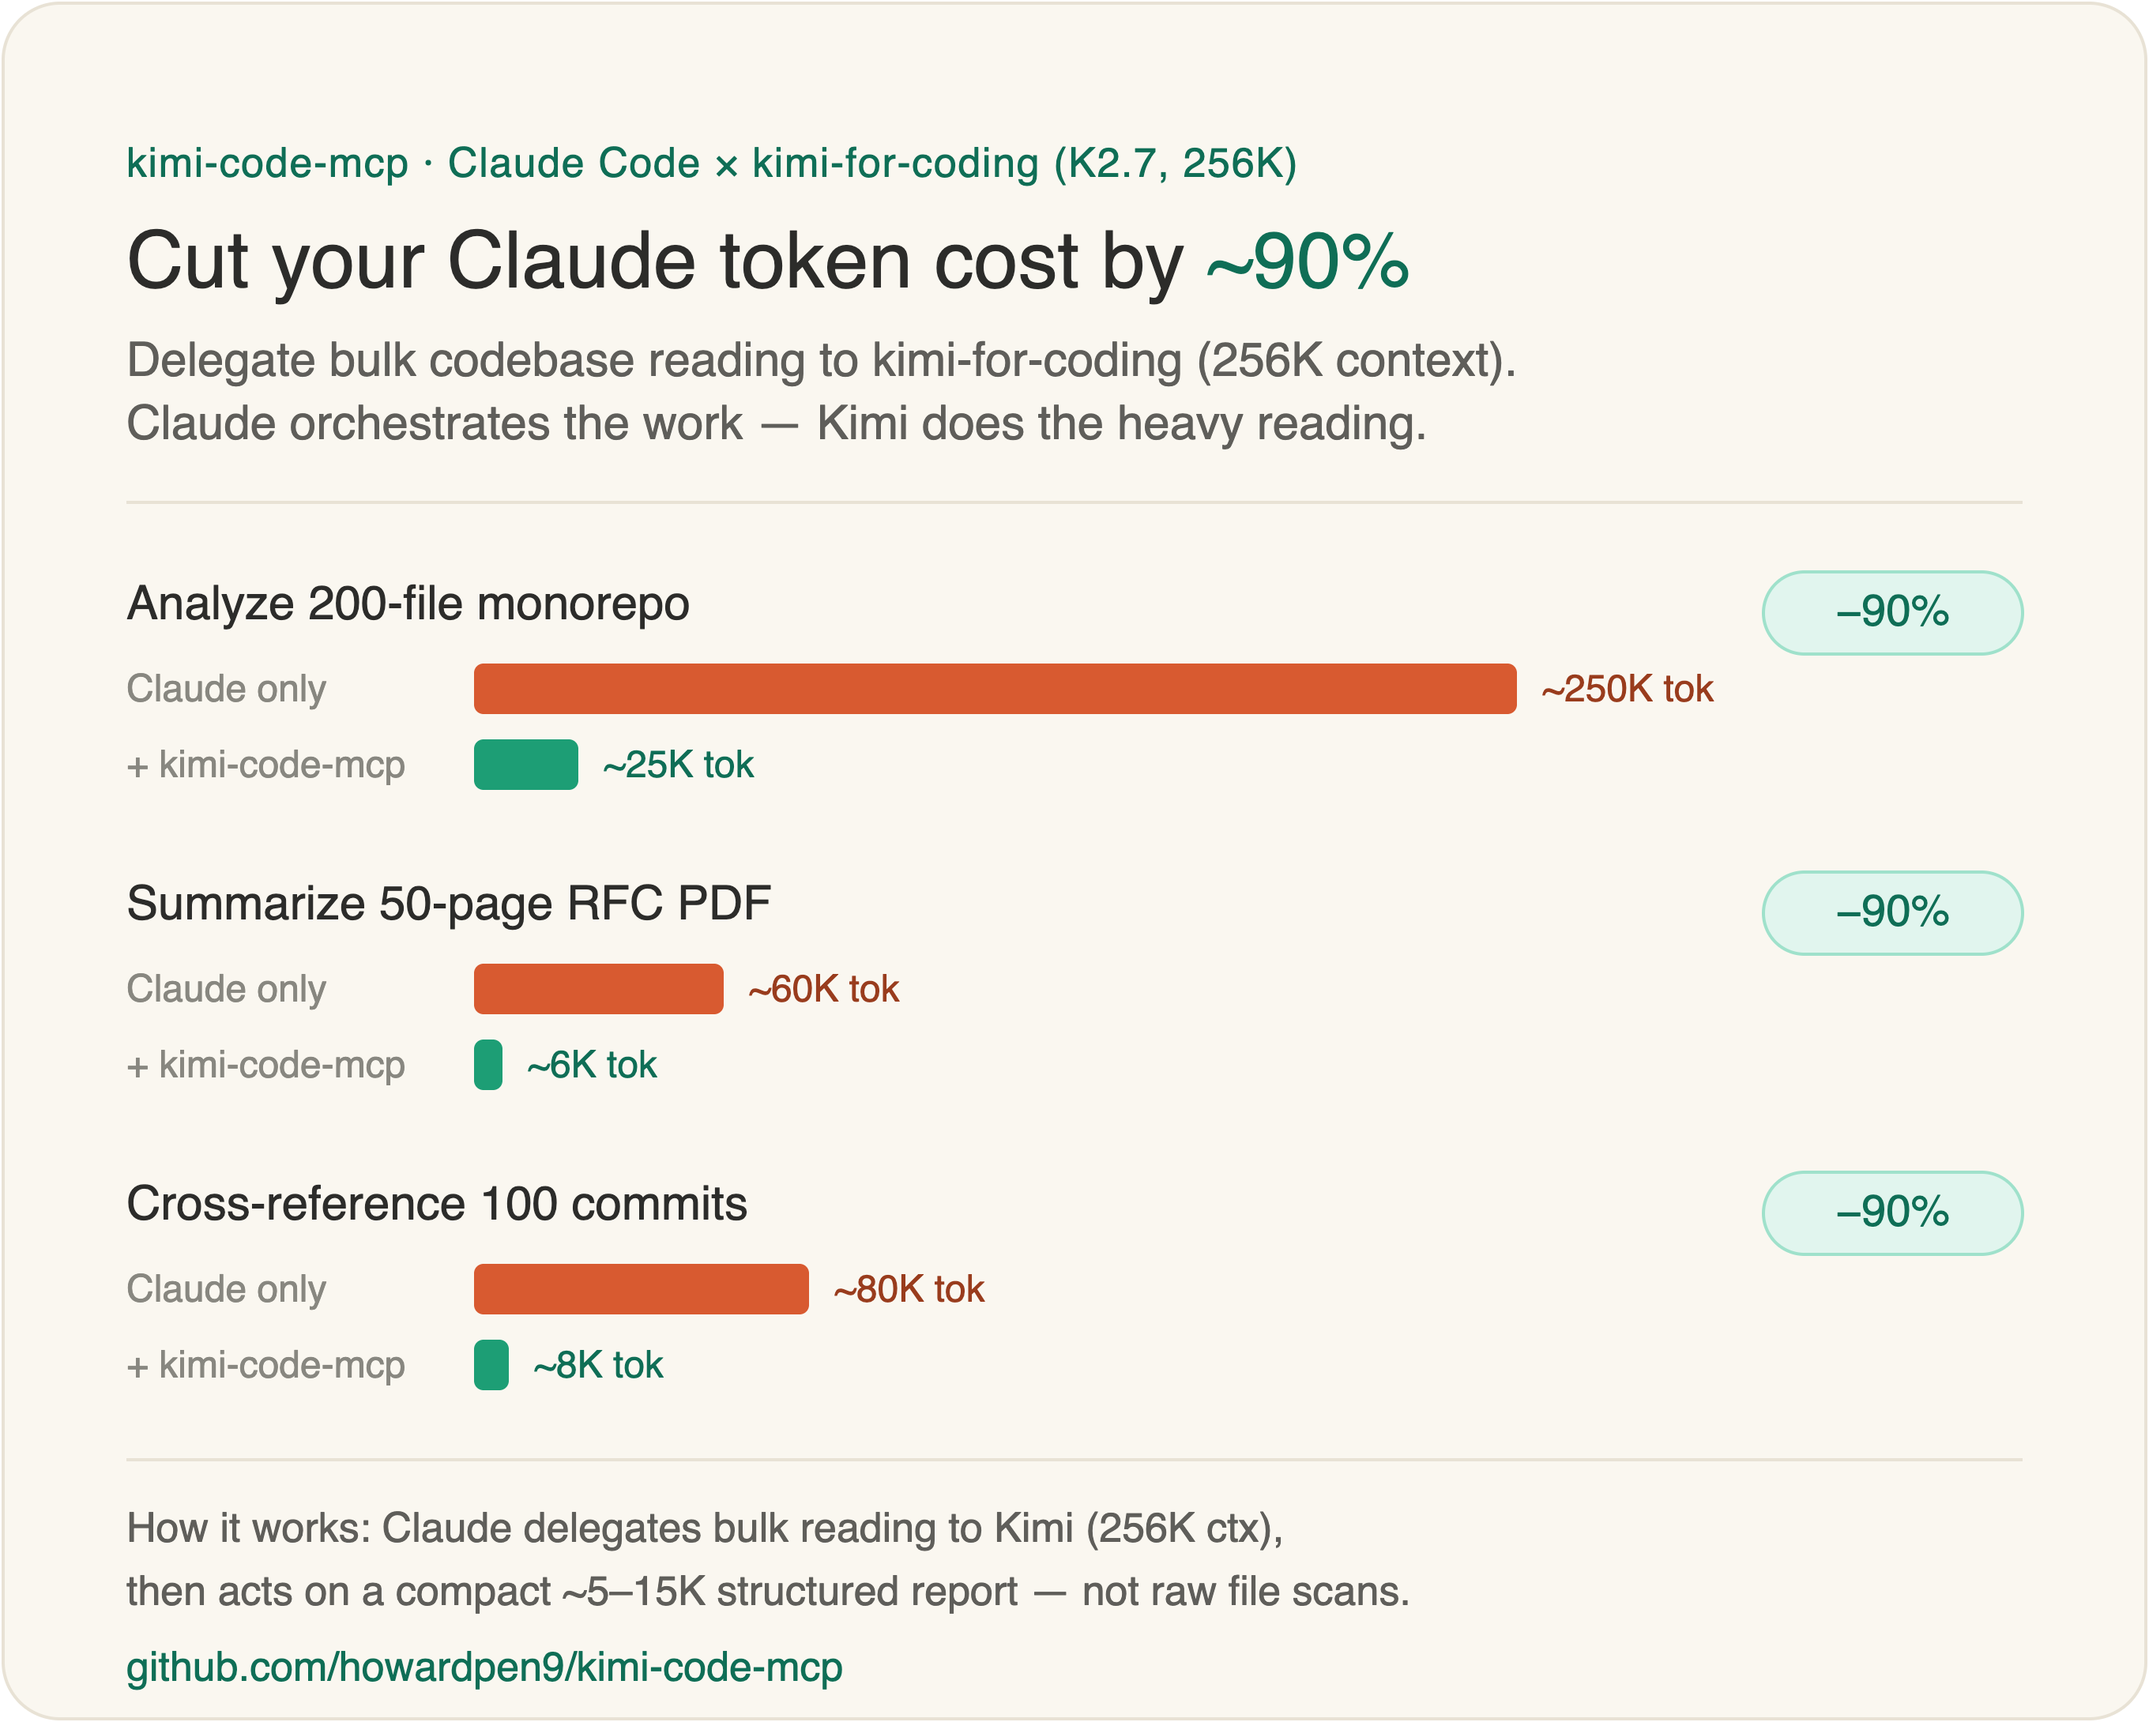
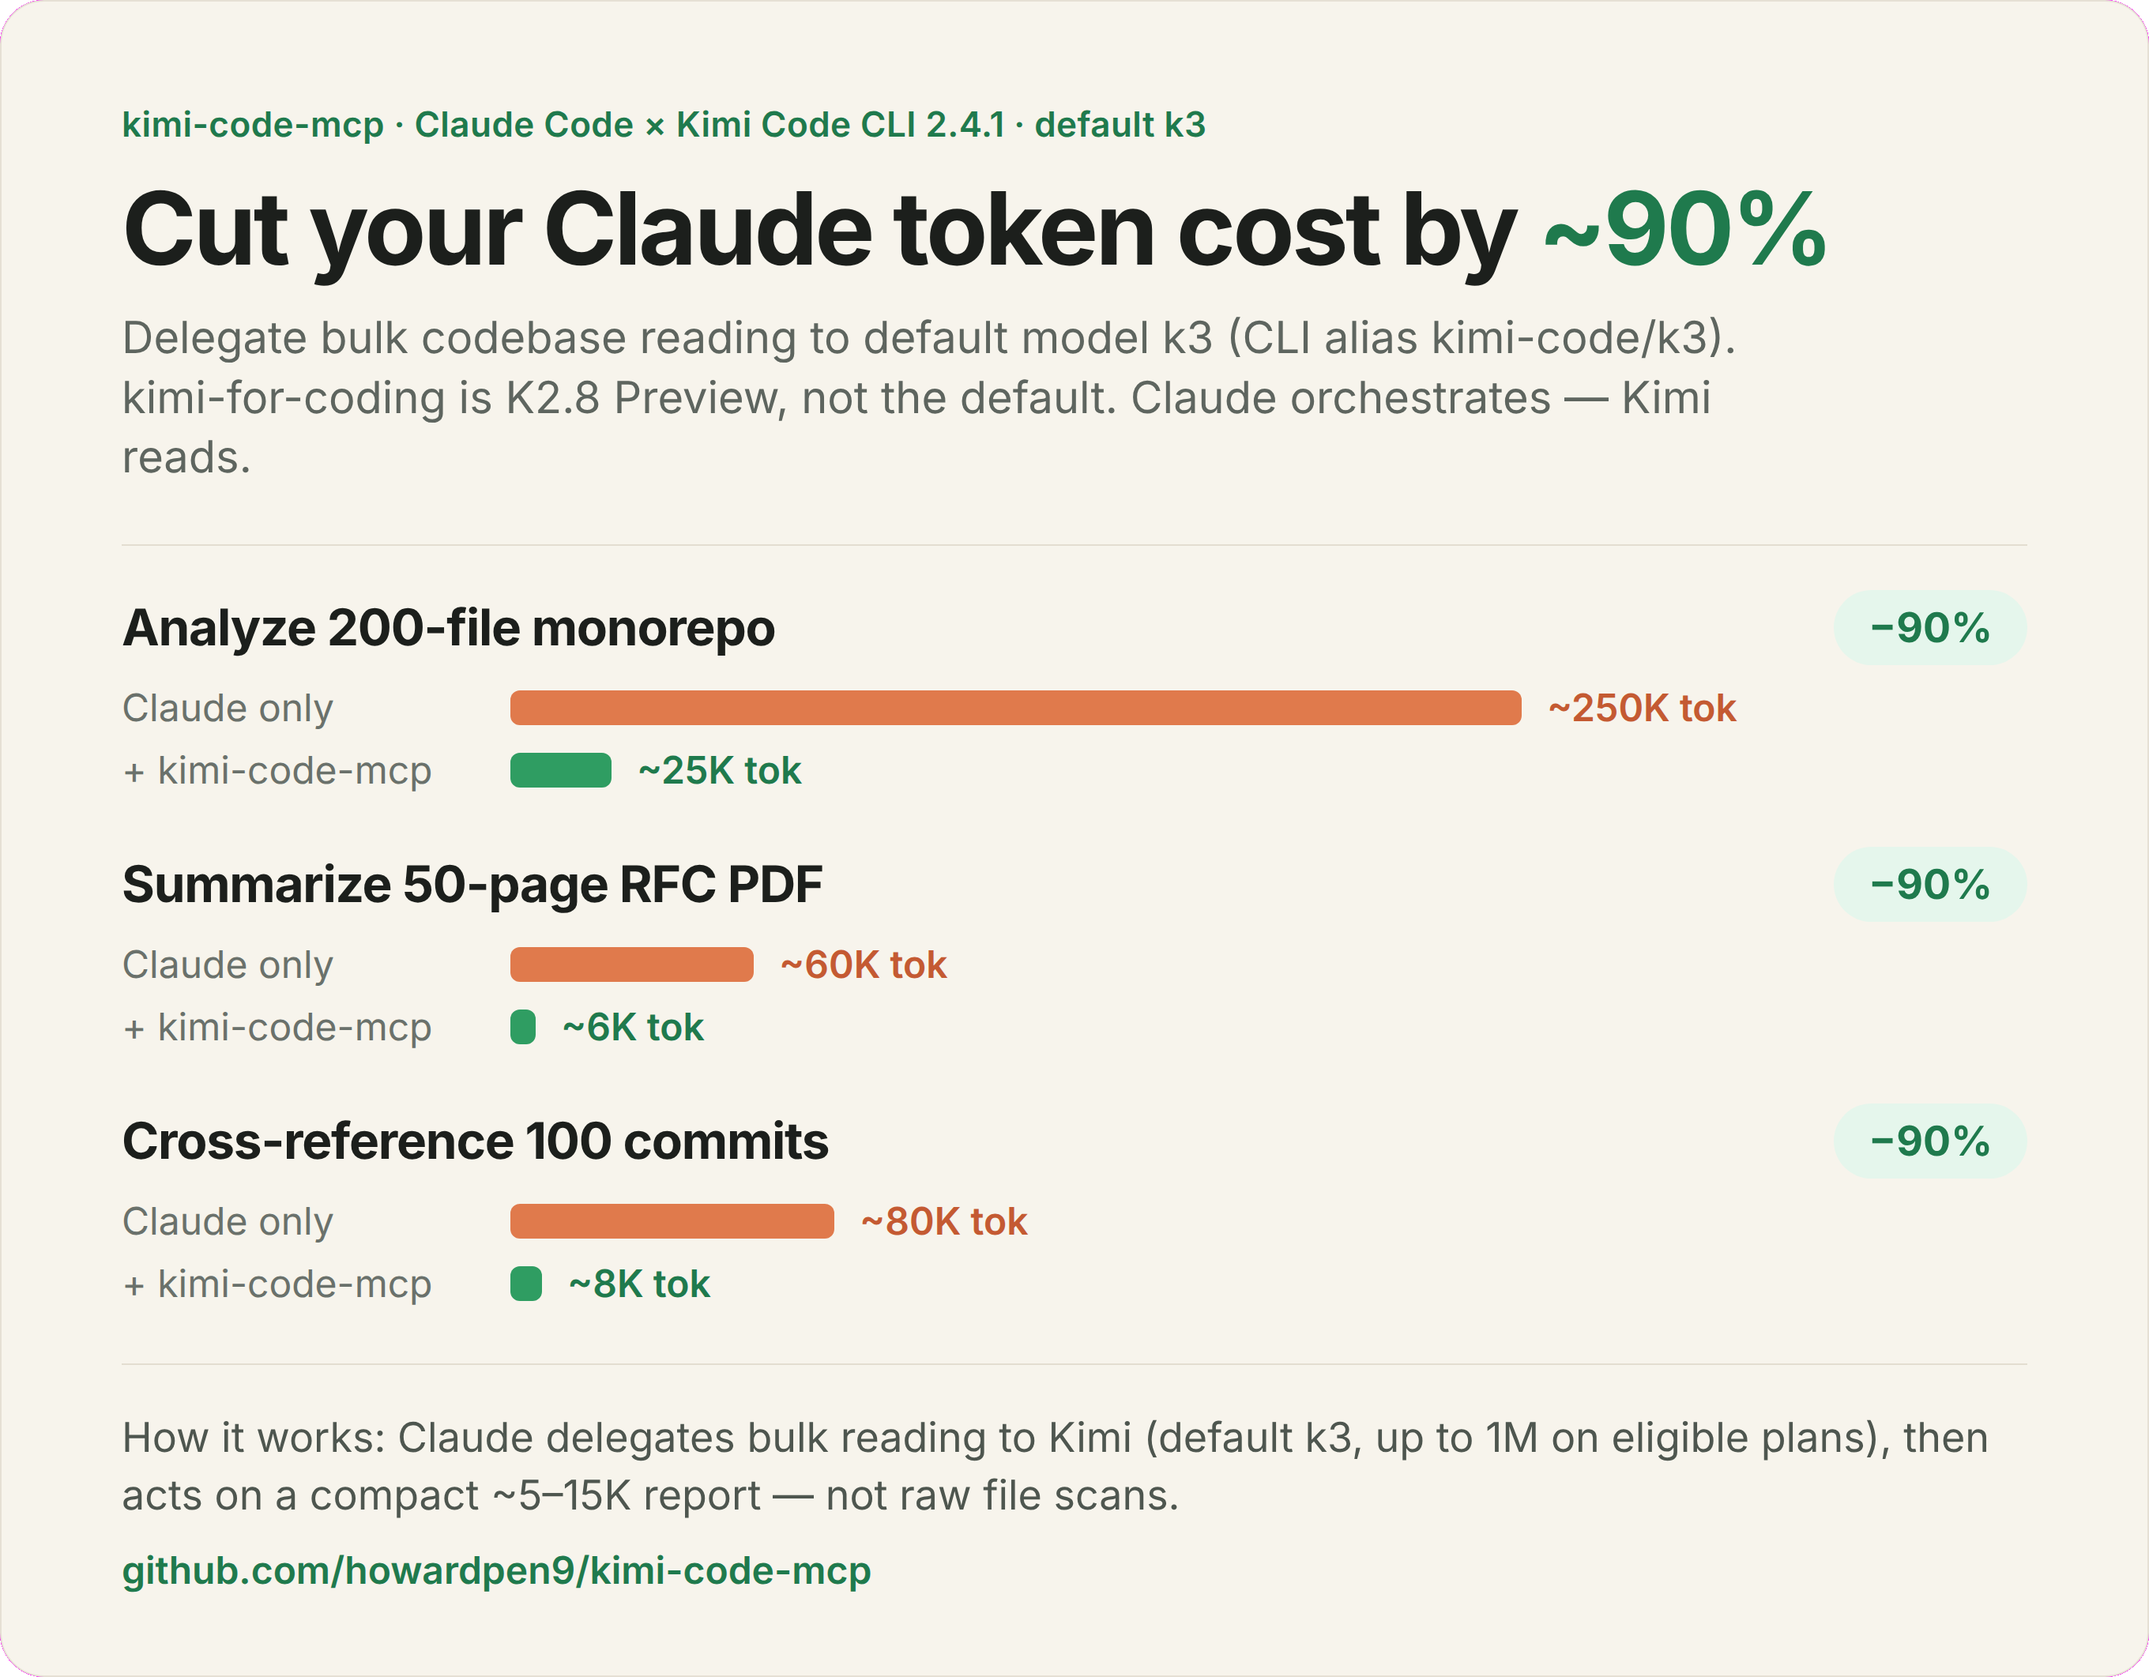
docs: relabel the token-savings hero for k3 (#6)
Replace the banner that still said kimi-for-coding (K2.7, 256K) with CLI 2.4.1, default model k3, and kimi-for-coding as K2.8 Preview.

diff --git a/README.md b/README.md
@@ -5,9 +5,9 @@ English | **[中文說明](README_zh.md)**
 ---
 
 <div align="center">
-  <img src="assets/token-savings-hero.png" alt="Chart: kimi-code-mcp, Claude Code × kimi-for-coding (K2.7, 256K), about 90% less Claude-side tokens on three sample tasks" width="760" />
+  <img src="assets/token-savings-hero.png" alt="Chart: kimi-code-mcp with Kimi Code CLI 2.4.1, default model k3 (alias kimi-code/k3). kimi-for-coding is K2.8 Preview. About 90% less Claude-side tokens on three sample tasks." width="760" />
   <br />
-  <sub>Illustrative estimates. The ~90% is <b>Claude-side</b> token reduction on analysis-heavy tasks — <b>not</b> total cost: Kimi's own <a href="https://www.kimi.com/code/en">subscription</a> still applies. The monorepo row mirrors the example below; the PDF/commits rows are rough sketches. The graphic still says <code>kimi-for-coding</code> (K2.7, 256K). This server's default is model id <code>k3</code> (CLI alias <code>kimi-code/k3</code>).</sub>
+  <sub>Illustrative estimates. The ~90% is <b>Claude-side</b> token reduction on analysis-heavy tasks — <b>not</b> total cost: Kimi's own <a href="https://www.kimi.com/code/en">subscription</a> still applies. The monorepo row mirrors the example below; the PDF/commits rows are rough sketches. Default model on the graphic is <code>k3</code> (CLI 2.4.1); <code>kimi-for-coding</code> is K2.8 Preview.</sub>
 </div>
 
 ---

diff --git a/README_zh.md b/README_zh.md
@@ -5,9 +5,9 @@
 ---
 
 <div align="center">
-  <img src="assets/token-savings-hero.png" alt="圖表：kimi-code-mcp，Claude Code × kimi-for-coding（K2.7，256K），三個範例任務的 Claude 端 token 約少 90%" width="760" />
+  <img src="assets/token-savings-hero.png" alt="圖表：kimi-code-mcp，Kimi Code CLI 2.4.1，預設模型 k3（別名 kimi-code/k3）。kimi-for-coding 是 K2.8 Preview。三個範例任務的 Claude 端 token 約少 90%。" width="760" />
   <br />
-  <sub>示意估算。這個 ~90% 是 <b>Claude 端</b> 在分析密集任務上的 token 減少 —— <b>不是</b>總成本歸零:Kimi 自己的<a href="https://www.kimi.com/code/en">訂閱費</a>照算。monorepo 那列對應下方實際舉例,PDF/commits 兩列為粗略示意。圖上仍寫 <code>kimi-for-coding</code>（K2.7，256K）。本伺服器預設模型 id 是 <code>k3</code>（CLI 別名 <code>kimi-code/k3</code>）。</sub>
+  <sub>示意估算。這個 ~90% 是 <b>Claude 端</b> 在分析密集任務上的 token 減少 —— <b>不是</b>總成本歸零:Kimi 自己的<a href="https://www.kimi.com/code/en">訂閱費</a>照算。monorepo 那列對應下方實際舉例,PDF/commits 兩列為粗略示意。圖上預設是 <code>k3</code>（CLI 2.4.1）；<code>kimi-for-coding</code> 是 K2.8 Preview。</sub>
 </div>
 
 ---

diff --git a/CHANGELOG.md b/CHANGELOG.md
@@ -26,6 +26,8 @@ and this project adheres to [Semantic Versioning](https://semver.org/spec/v2.0.0
   2.4.1 (default `k3` / `kimi-code/k3`; `kimi-for-coding` is K2.8 Preview).
   Document that this server still launches `~/.local/bin/kimi` and reads legacy
   `~/.kimi` session and credential paths.
+- Replace the token-savings hero so it no longer says K2.7 / 256K. It now
+  labels CLI 2.4.1, default `k3`, and `kimi-for-coding` as K2.8 Preview.
 
 ## [0.5.0] - 2026-07-17
 
